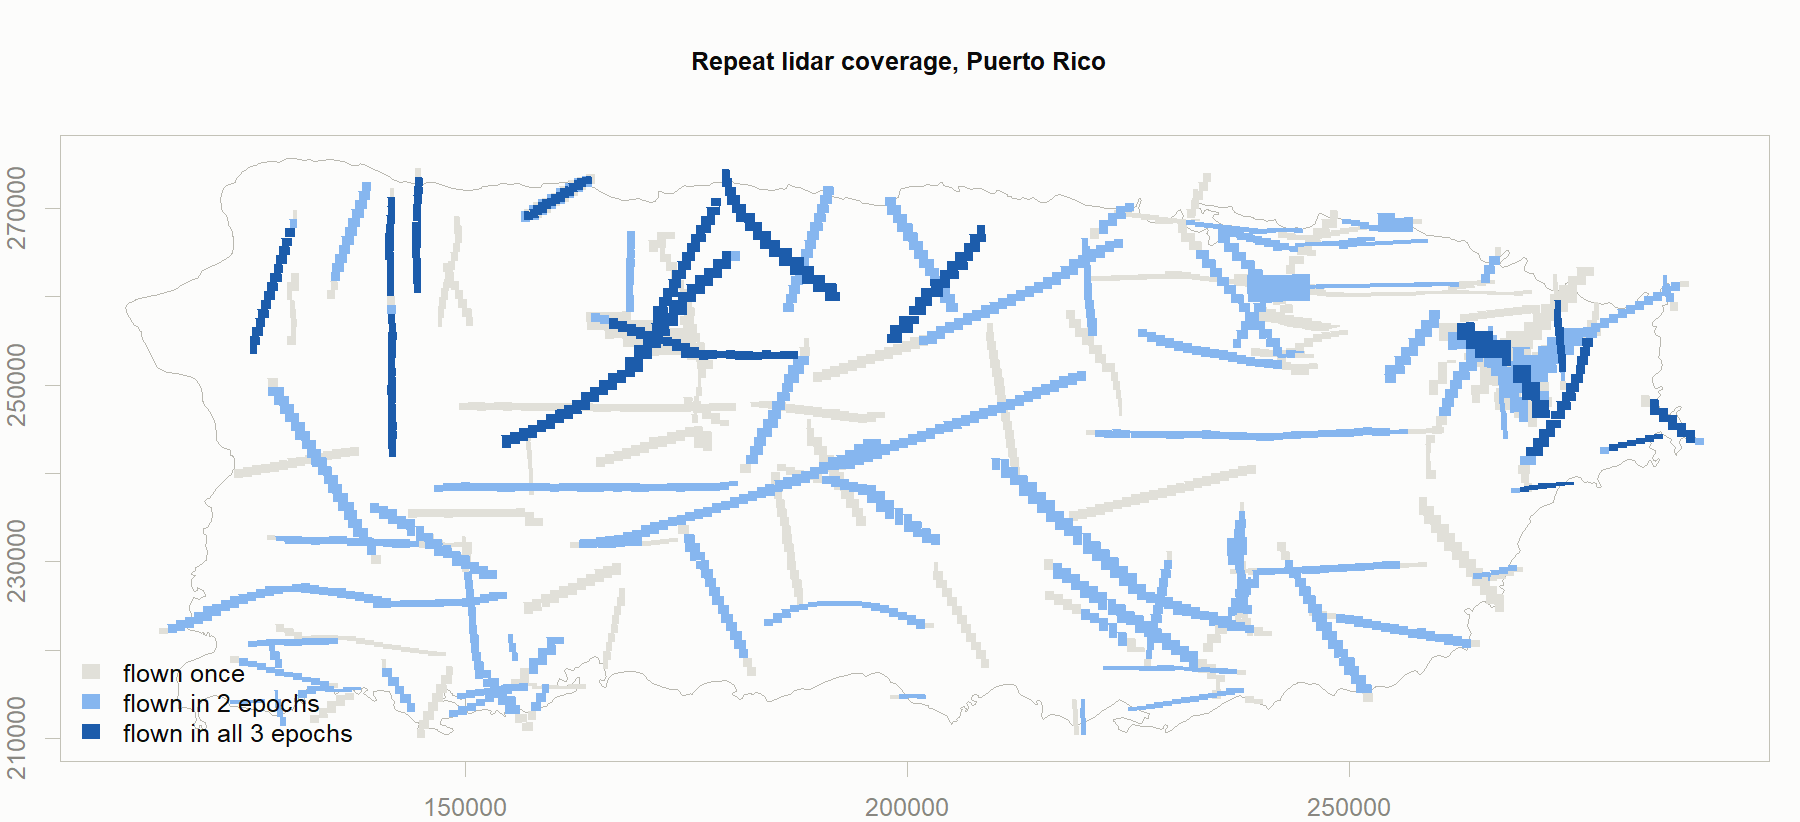
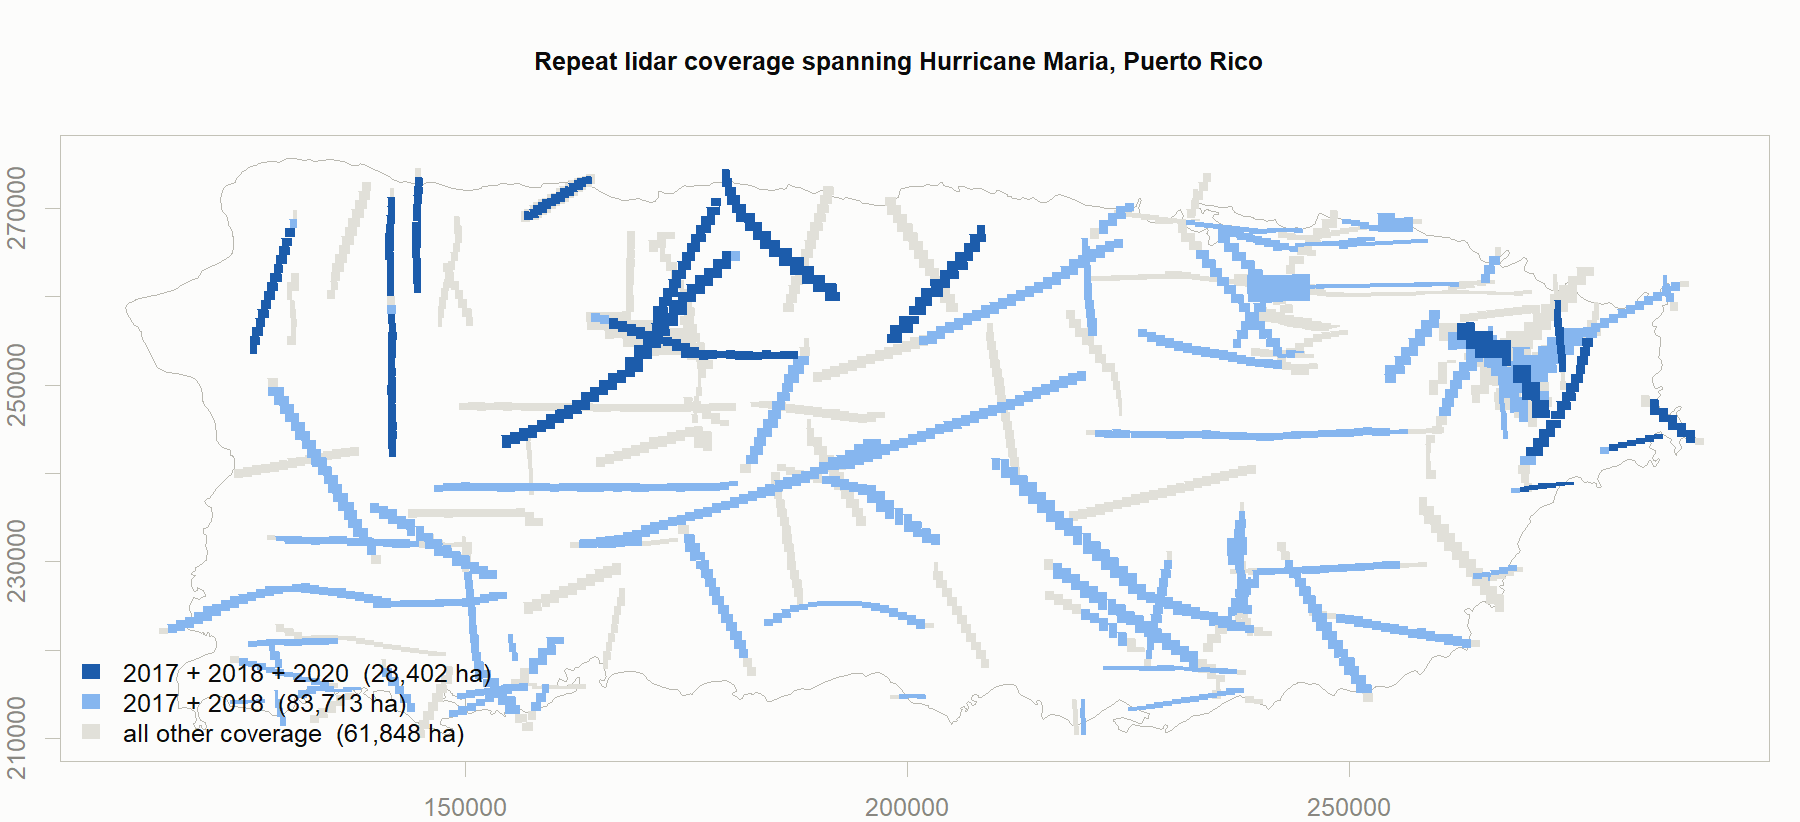
updated coverage figures to show useable area

diff --git a/README.md b/README.md
@@ -1,4 +1,4 @@
-# G-LiHT Puerto Rico — flight-path inventory and repeat-coverage overlay
+| `figures/` | three maps: coverage by epoch (one panel per epoch), repeat coverage (how many epochs), and epoch combinations (which epochs, one panel each) |# G-LiHT Puerto Rico — flight-path inventory and repeat-coverage overlay
 
 Compiles every G-LiHT Puerto Rico acquisition into a searchable inventory, builds
 coverage footprints for each one, and identifies where the
@@ -70,7 +70,7 @@ Small artefacts in `derived/inventory/` (committed):
 | `pr_inventory_by_epoch.csv` | campaigns, flight days, dates and area per epoch |
 | `pr_footprints_chm.gpkg` | exact CHM footprints, for campaigns you have refined |
 | `pr_footprint_summary_chm.csv`, `pr_repeat_summary_chm.csv` | the same, tabulated |
-| `figures/` | coverage by epoch (one panel per epoch), and the repeat-coverage map |
+| `figures/` | three maps: coverage by epoch (one panel per epoch), repeat coverage (how many epochs cover each piece of ground), and epoch combinations (which epochs, one panel per combination) |
 
 `--max N` writes a partial inventory over these same paths, so re-run without it
 before trusting `derived/inventory/`.
